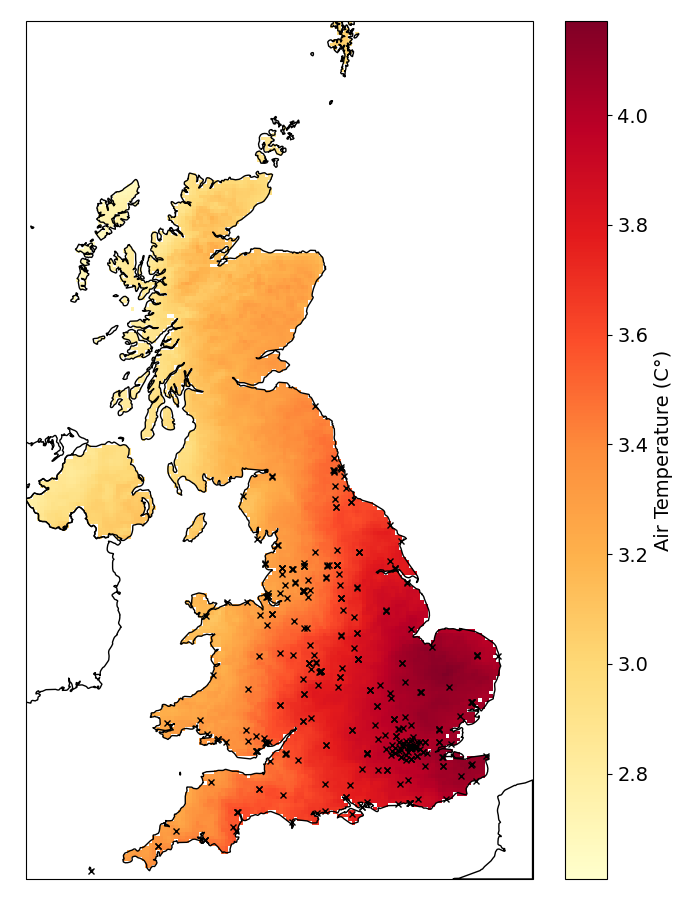
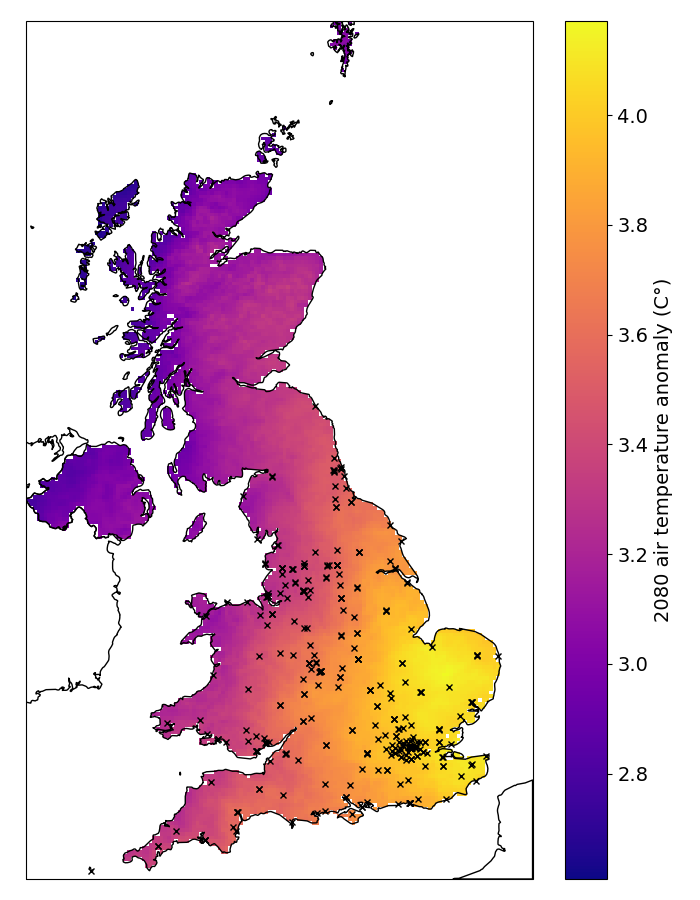
Updated colormap

diff --git a/rmets_article/anomaly_plot.py b/rmets_article/anomaly_plot.py
@@ -101,13 +101,13 @@ def plotting_article_plot(tas, court_long, court_lat):
     
     transform = ccrs.PlateCarree()
     fig, ax = plt.subplots(1, 1, figsize=(7,9), subplot_kw={'projection': ccrs.OSGB()})
-    im = ax.pcolormesh(lon, lat, anomaly.data, transform=transform, cmap='YlOrRd')
+    im = ax.pcolormesh(lon, lat, anomaly.data, transform=transform, cmap='plasma')
 
     ax.plot(court_long, court_lat, 'kx', transform=transform, markersize=4)
     ax.add_feature(ten_metre_borders)
     
     fig.colorbar(im, ax=ax, orientation='vertical', \
-        label="Air Temperature (C\u00B0)")
+        label="2080 air temperature anomaly (C\u00B0)")
     
     plt.tight_layout()
     plt.savefig('rmets_article/plots/anomaly_plot.png')
